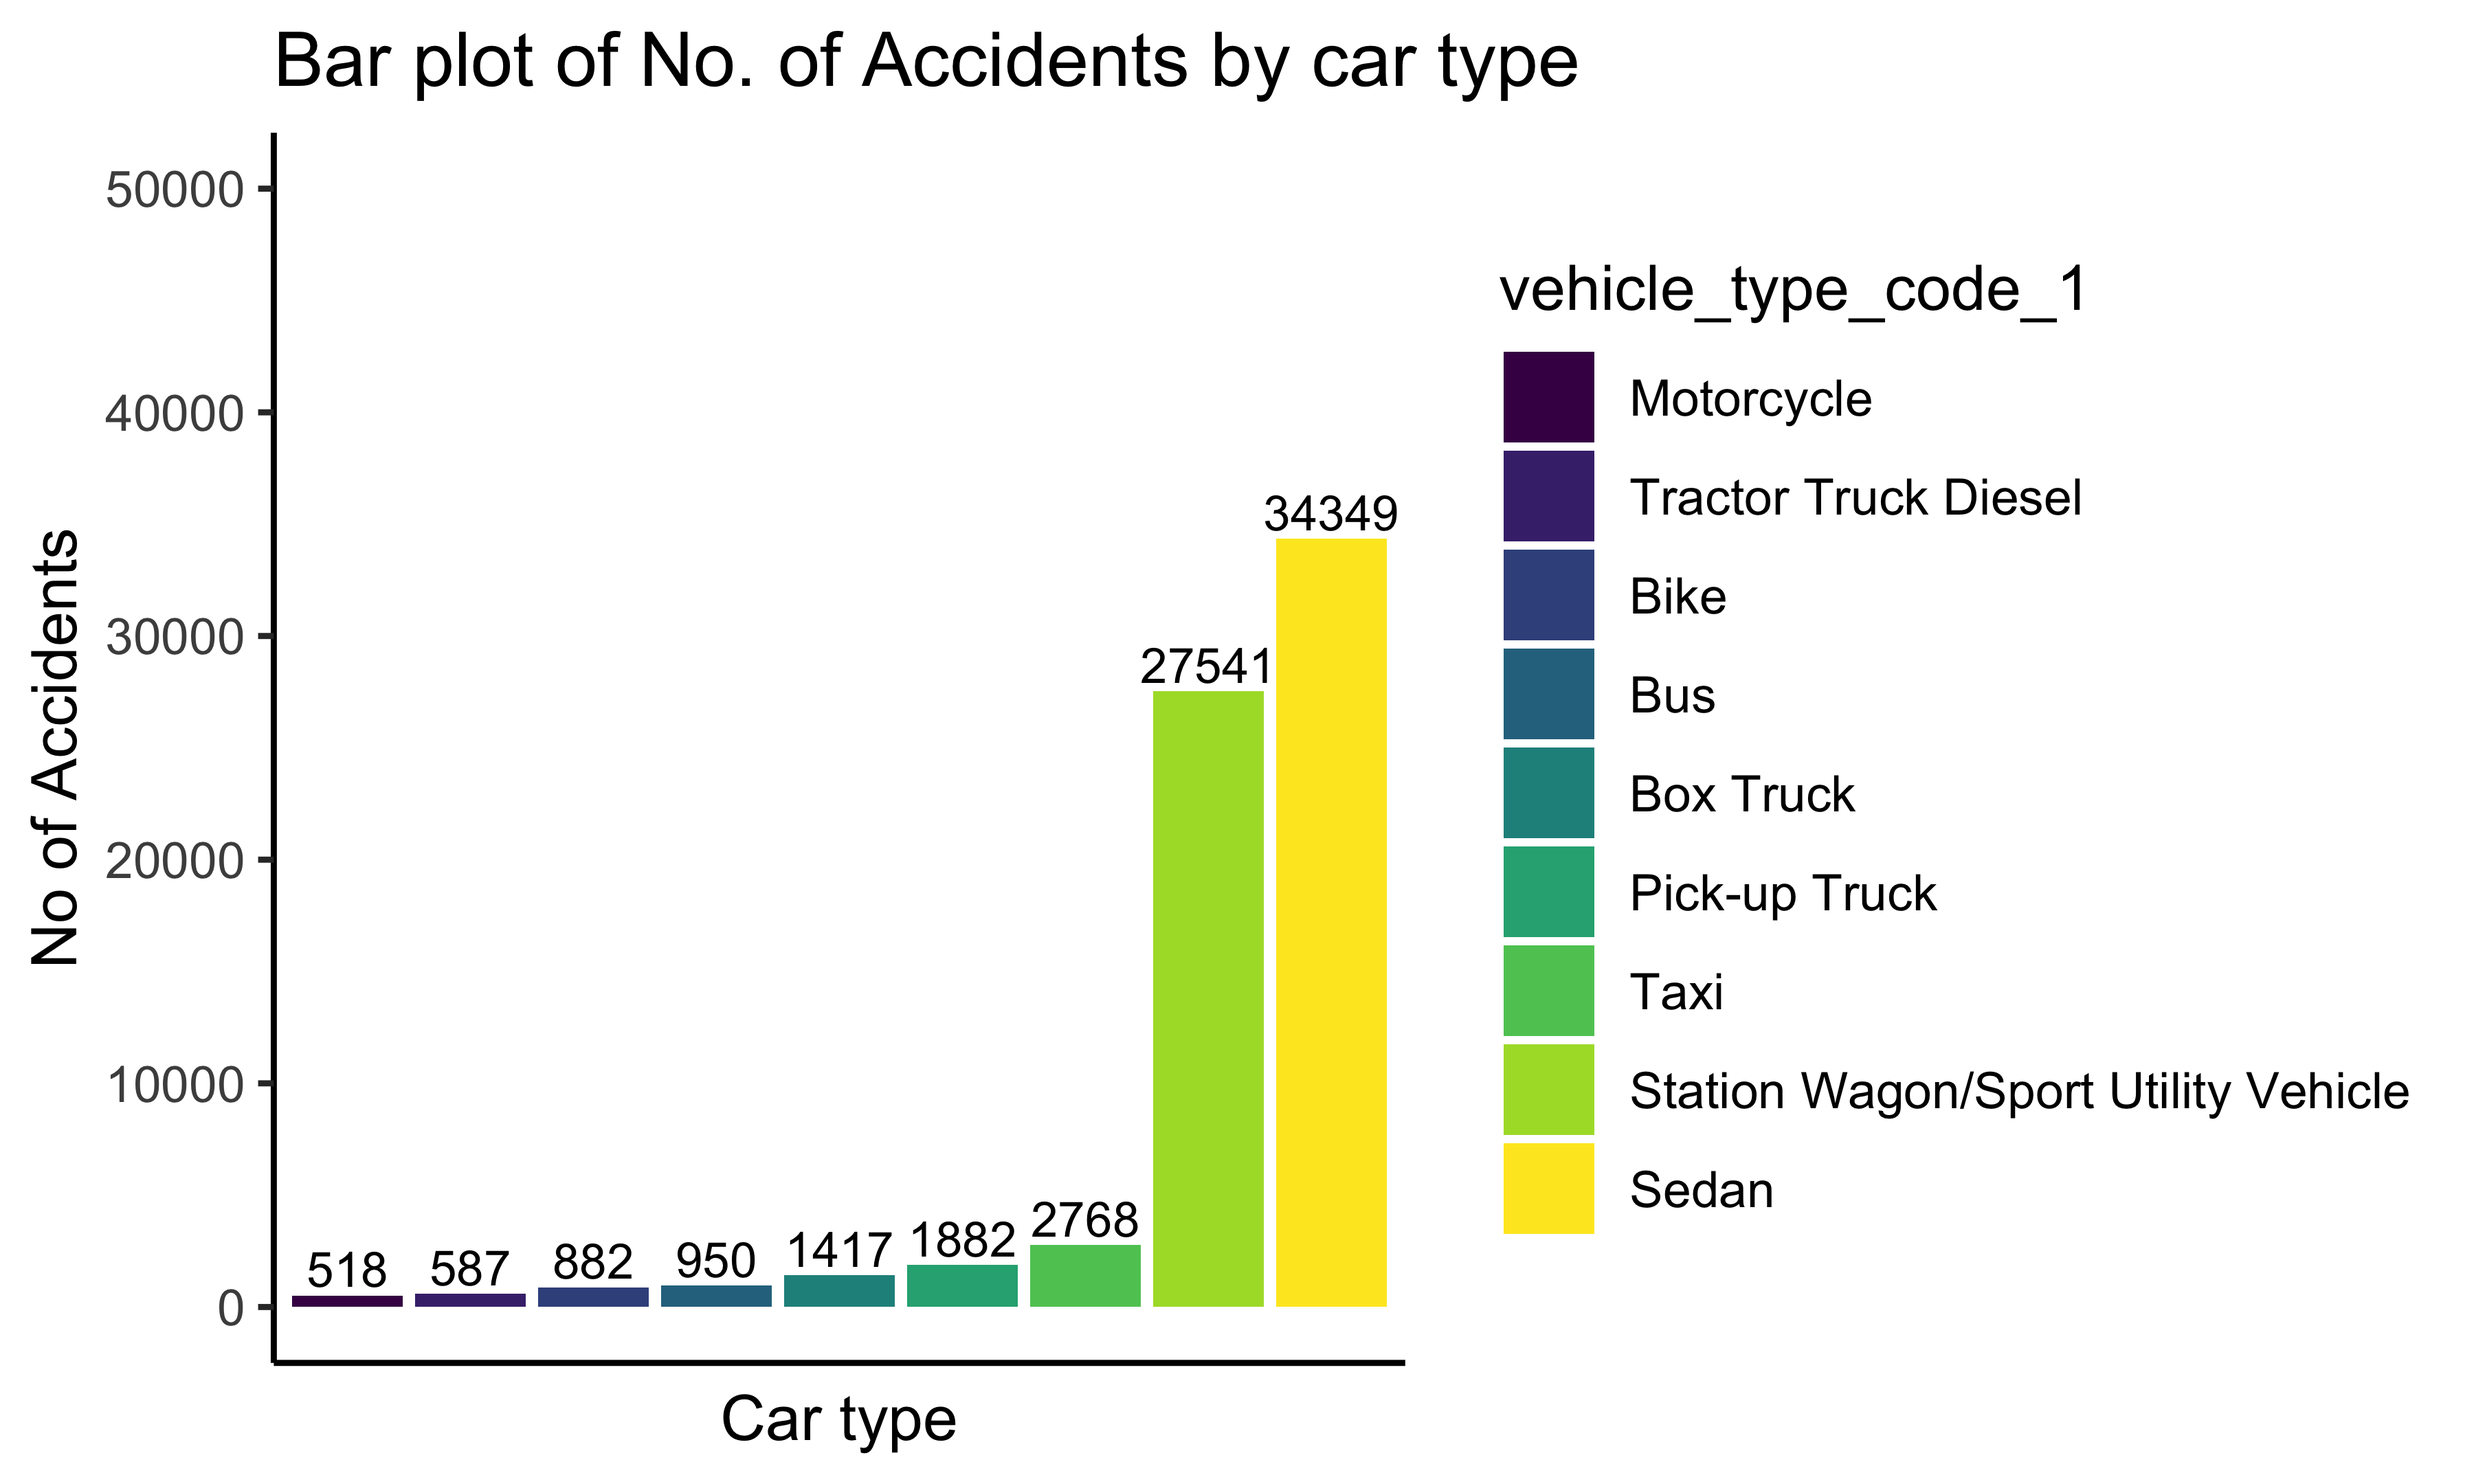
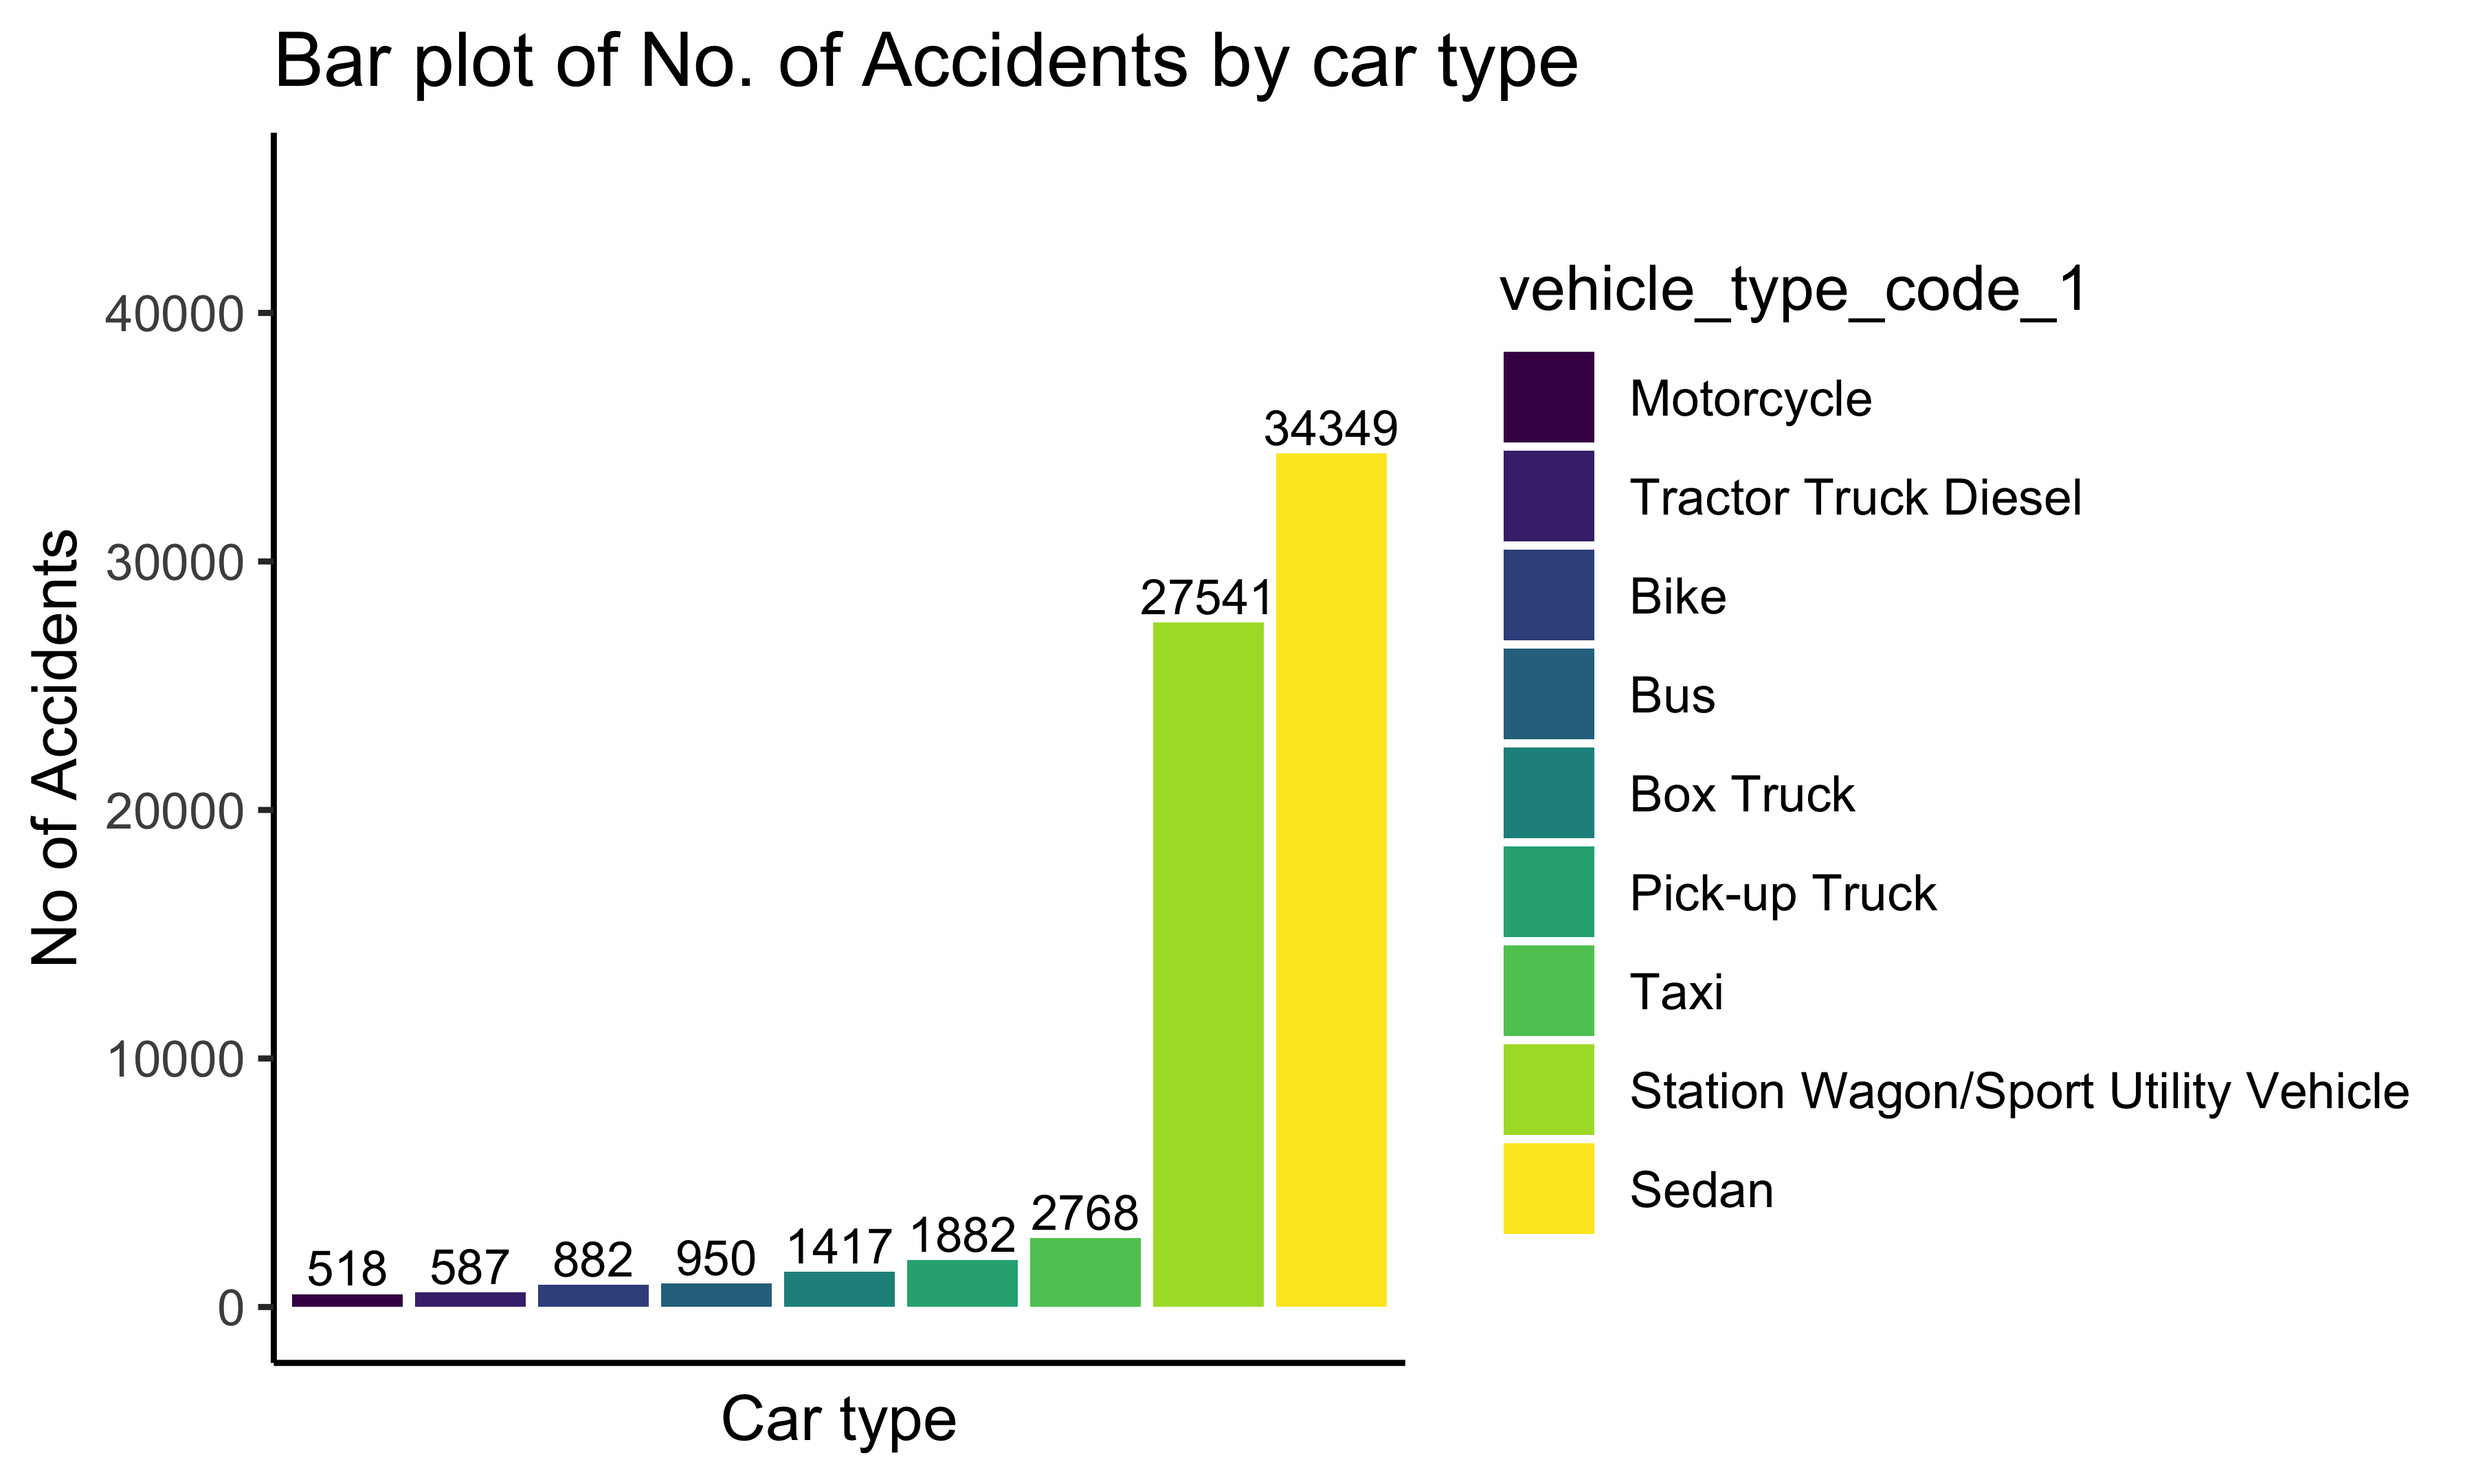
Change the ylim in car_type rmd

diff --git a/car_types.html b/car_types.html
@@ -348,7 +348,7 @@ div.tocify {
       <a href="time.html">Car Accidents over Time</a>
     </li>
     <li>
-      <a href="car_type.html">Car Accidents by Car Type</a>
+      <a href="car_types.html">Car Accidents by Car Type</a>
     </li>
     <li>
       <a href="weather.html">Weather and Accidents</a>
@@ -430,7 +430,7 @@ accidents_cartype_bar =
        y = &quot;No of Accidents&quot;, 
        x = &quot;Car type&quot;) +
   geom_text(size = 3, aes(label = obs), position = position_dodge(width=0.9), vjust=-0.25) + 
-  ylim(0, 50000)
+  ylim(0, 45000)
 
 accidents_cartype_bar + theme(axis.text.x=element_blank(), axis.ticks.x=element_blank())</code></pre>
 <p><img src="car_types_files/figure-html/unnamed-chunk-2-1.png" width="90%" /></p>
